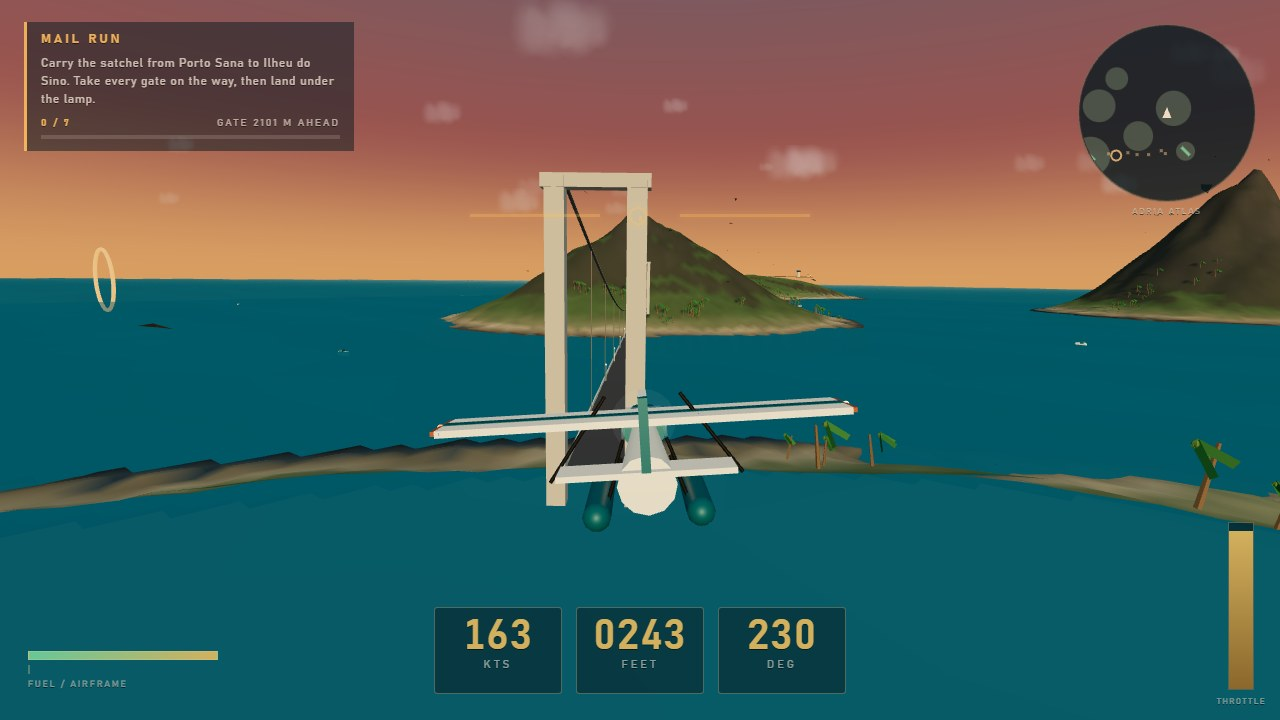
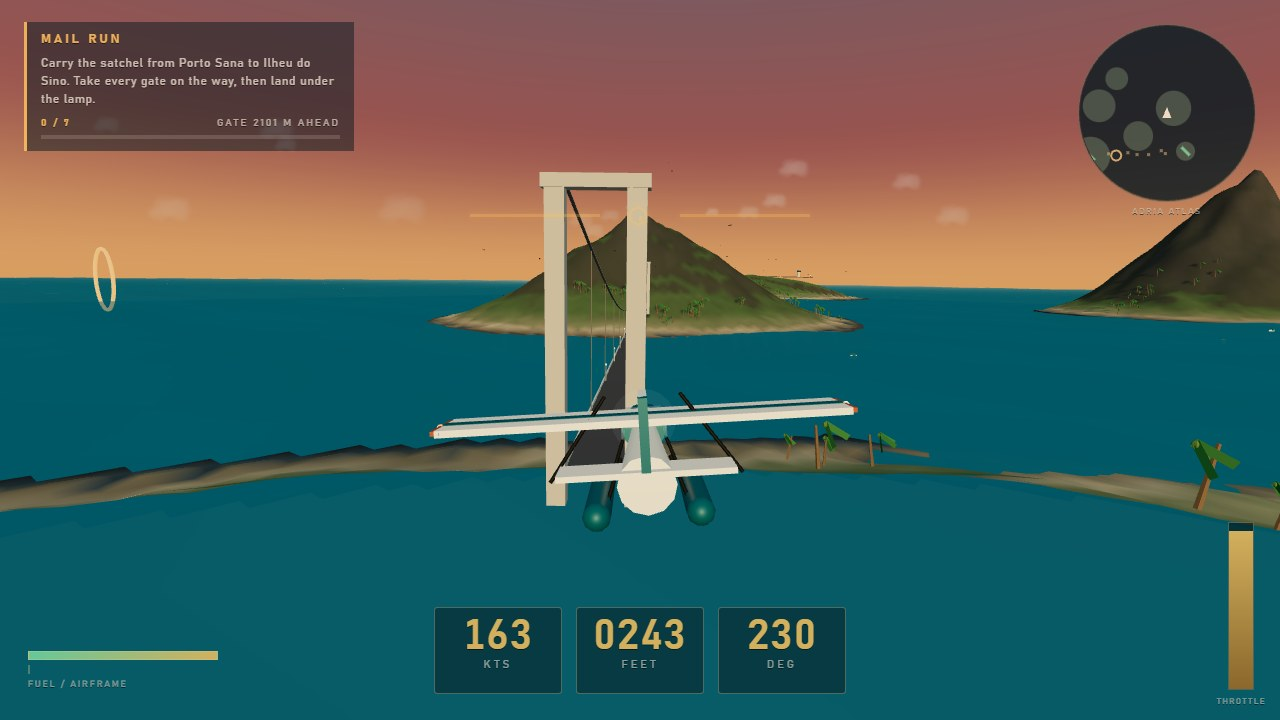
Runway threshold keys and designators, STALL flag only when stalled

diff --git a/game/src/terrain/buildIslands.js b/game/src/terrain/buildIslands.js
@@ -136,6 +136,35 @@ function buildAirstrip(strip) {
     }
   }
 
+  // Threshold piano keys and the designator at each end, so the strip reads as a runway from the air.
+  const paint = new THREE.MeshStandardMaterial({ color: '#f7f1dc', emissive: '#6b6250', emissiveIntensity: 0.5, roughness: 0.8 });
+  for (const end of [-1, 1]) {
+    for (let i = 0; i < 6; i++) {
+      const key = new THREE.Mesh(new THREE.BoxGeometry(2.6, 0.24, 14), paint);
+      key.position.set(-strip.width / 2 + 4 + i * 3.6, 0.9, end * (strip.length / 2 - 10));
+      group.add(key);
+    }
+    const canvas = document.createElement('canvas');
+    canvas.width = 256;
+    canvas.height = 256;
+    const ctx = canvas.getContext('2d');
+    ctx.fillStyle = '#f7f1dc';
+    ctx.font = 'bold 208px "DIN Alternate", Impact, sans-serif';
+    ctx.textAlign = 'center';
+    ctx.textBaseline = 'middle';
+    ctx.fillText(strip.designator ?? '09', 128, 140);
+    const tex = new THREE.CanvasTexture(canvas);
+    tex.colorSpace = THREE.SRGBColorSpace;
+    const number = new THREE.Mesh(
+      new THREE.PlaneGeometry(23, 23),
+      new THREE.MeshBasicMaterial({ map: tex, transparent: true }),
+    );
+    number.rotation.x = -Math.PI / 2;
+    number.rotation.z = end > 0 ? Math.PI : 0;
+    number.position.set(0, 0.96, end * (strip.length / 2 - 26));
+    group.add(number);
+  }
+
   // PAPI bars off the threshold: two white, two red, the way a real approach reads.
   const papiWhite = new THREE.MeshStandardMaterial({ color: '#fff6dd', emissive: '#ffeec4', emissiveIntensity: 3.2 });
   const papiRed = new THREE.MeshStandardMaterial({ color: '#ff6b4a', emissive: '#ff3d20', emissiveIntensity: 3.2 });

diff --git a/game/src/ui/hud.js b/game/src/ui/hud.js
@@ -9,6 +9,7 @@ export function createHud(mission) {
   const el = {
     root: document.getElementById('hud'),
     speed: document.getElementById('g-speed'),
+    speedLabel: document.querySelector('.gauge.speed u'),
     alt: document.getElementById('g-alt'),
     heading: document.getElementById('g-hdg'),
     fuel: document.getElementById('g-fuel'),
@@ -44,6 +45,7 @@ export function createHud(mission) {
 
       const speedAlarm = plane.speed < SPEED_ALARM && plane.alive;
       el.gauges[0].classList.toggle('alarm', speedAlarm);
+      el.speedLabel.classList.toggle('on', speedAlarm);
       const pullUp = plane.position.y - plane.groundHeight < 42 && plane.alive && plane.sinkRate > 2;
       el.gauges[1].classList.toggle('alarm', pullUp);
       el.gauges[2].classList.toggle('alarm', false);

diff --git a/game/src/terrain/heightfield.js b/game/src/terrain/heightfield.js
@@ -64,8 +64,8 @@ export const ISLANDS = [
 
 // Airstrips sit on a levelled shelf that the heightfield itself carves, so a landing is a landing.
 export const AIRSTRIPS = [
-  { name: 'Porto Sana', x: -1450, z: 1280, heading: 0.42, length: 620, width: 44, pad: 88 },
-  { name: 'Ilheu do Sino', x: 1560, z: 1120, heading: -1.05, length: 480, width: 34, pad: 112 },
+  { name: 'Porto Sana', x: -1450, z: 1280, heading: 0.42, length: 620, width: 44, pad: 88, designator: '14' },
+  { name: 'Ilheu do Sino', x: 1560, z: 1120, heading: -1.05, length: 480, width: 34, pad: 112, designator: '27' },
 ];
 
 // The shape of one island at a point: 1 at the crown, 0 past the shore.

diff --git a/game/src/shots.js b/game/src/shots.js
@@ -59,7 +59,7 @@ export const SHOTS = {
     const from = groundAt(endA.x, endA.z) < groundAt(endB.x, endB.z) ? endA : endB;
     from.y = pad + 15;
     const to = new THREE.Vector3(strip.x, pad + 3, strip.z).lerp(from, 0.34);
-    const pose = aim(from, to, { roll: 0.04, pitch: -0.1 });
+    const pose = aim(from, to, { roll: 0.04, pitch: -0.15 });
     return { ...pose, speed: 56, throttle: 0.46, camera: 'cockpit', kind: 'medevac' };
   },
 

diff --git a/game/ui/hud.css b/game/ui/hud.css
@@ -240,3 +240,11 @@ html, body {
   transform: scale(0.92);
   transform-origin: top left;
 }
+
+/* The STALL flag only shows while the wing is actually stalled. */
+.gauge.speed u {
+  opacity: 0;
+}
+.gauge.speed u.on {
+  opacity: 1;
+}
